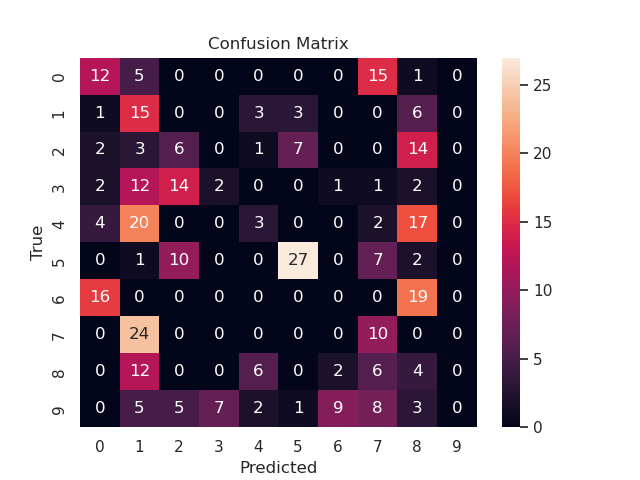
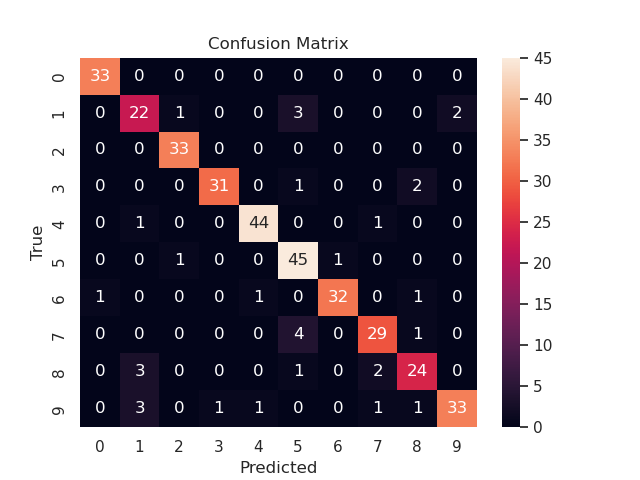
coding complete

diff --git a/modules/layers.py b/modules/layers.py
@@ -1,3 +1,26 @@
+# Author : Umer Irshad
+# Date : 2026-04-21
+# Module : LLM
+# Section : Introduction
+# Task Name : Coding Exercise Part 1
+# Part : Layers
+# Description : 
+
+# This file contains the following Layers of a deep neural network: 
+#   1. Convolution Layer
+#   2. Liner Layer
+
+# Convolution Layer takes in the input and output channels. The provided
+# kernel size is a single number which is translated into a square shaped
+# filter to be applied. The stride parameter decides the stride decided 
+# vertically and horizontally to perform the convolution operation.
+
+# Liner Layer is by definition a fully connected layer with parameters of 
+# input features and output features. The weight matrix of such a layer contains
+# output_features * input_features weights.
+
+# The weights for each layer is being initialized using kaiming intilization. 
+
 import numpy as np
 
 
@@ -8,10 +31,14 @@ class ConvolutionLayer:
         self.kernel_size = kernel_size
         self.stride = stride
 
-        self.weights = np.random.rand(
+        fan_in = in_channels * kernel_size * kernel_size
+        std = np.sqrt(2.0 / fan_in)
+
+        self.weights = np.random.randn(
             out_channels, in_channels, kernel_size, kernel_size
-        ).astype(np.float32)
-        self.bias = np.random.rand(out_channels).astype(np.float32)
+        ).astype(np.float32) * std
+
+        self.bias = np.zeros(out_channels, dtype=np.float32)
 
         self.inputs = None
         self.has_weights = True
@@ -135,8 +162,11 @@ class LinearLayer:
         self.in_features = in_features
         self.out_features = out_features
 
-        self.weights = np.random.rand(out_features, in_features).astype(np.float32)
-        self.bias = np.random.rand(out_features).astype(np.float32)
+        fan_in = in_features
+        std = np.sqrt(2.0 / fan_in)
+
+        self.weights = np.random.randn(out_features, in_features).astype(np.float32) * std
+        self.bias = np.zeros(out_features, dtype=np.float32)
 
         self.inputs = None
         self.has_weights = True

diff --git a/main.py b/main.py
@@ -1,3 +1,20 @@
+# Author : Umer Irshad
+# Date : 2026-04-21
+# Module : LLM
+# Section : Introduction
+# Task Name : Coding Exercise Part 1
+# Part : main
+# Description : 
+
+# This file is an entry point to intialize and run a given model architecture.
+
+# Assumptions Made: The given Learning rate along with number of epochs is not 
+# sufficient enough to obtain the desired 90%+ accuracy since the model is not
+# complex enough to learn the features effectively for such a good accuracy. To 
+# mitigate this problem, I have increased the learning rate and number of epochs
+# to obtain 90%+ train and test accuracy.
+
+
 import seaborn as sns
 import numpy as np
 
@@ -20,8 +37,8 @@ np.random.seed(0)
 sns.set(style="darkgrid")
 np.set_printoptions(precision=4, suppress=True)
 
-EPOCHS = 25
-LEARNING_RATE = 0.01
+EPOCHS = 50
+LEARNING_RATE = 0.1
 BATCH_SIZE = 32
 
 

diff --git a/modules/activation.py b/modules/activation.py
@@ -1,3 +1,20 @@
+# Author : Umer Irshad
+# Date : 2026-04-21
+# Module : LLM
+# Section : Introduction
+# Task Name : Coding Exercise Part 1
+# Part : Activations
+# Description : 
+
+# This file contains the 3 activations being used in the NNs:
+#   1. ReLU (Rectified Linear Unit)
+#   2. Sigmoid
+#   3. Softmax
+# Forward and backward pass for each layer is implemented.
+# For softmax, the derivative is calcualted by reducing 
+# the expressions obtained from the jacobian matrix multiplication
+
+
 import numpy as np
 
 

diff --git a/modules/loss.py b/modules/loss.py
@@ -1,3 +1,16 @@
+# Author : Umer Irshad
+# Date : 2026-04-21
+# Module : LLM
+# Section : Introduction
+# Task Name : Coding Exercise Part 1
+# Part : Loss
+# Description : 
+
+# This file contains the Cross Entropy Loss forward and backward pass:
+# Epsilon is used to maintain numerical stability (keeping the inputs in a
+# good range of 0-1) so that the outputs dont explode for very big exponentials
+
+
 import numpy as np
 
 

diff --git a/tests/test_model.py b/tests/test_model.py
@@ -22,7 +22,7 @@ class TestAccuracy:
 
         model = Model(layer_list, CrossEntropy())
 
-        model.train(x_train, y_train, 25, 0.01, 32)
+        model.train(x_train, y_train, 50, 0.1, 32)
 
         predictions = model.predict(x_test)
         accuracy = compute_accuracy(predictions, y_test)
